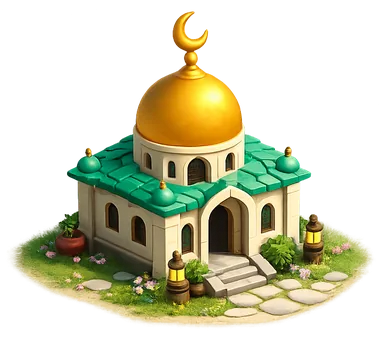
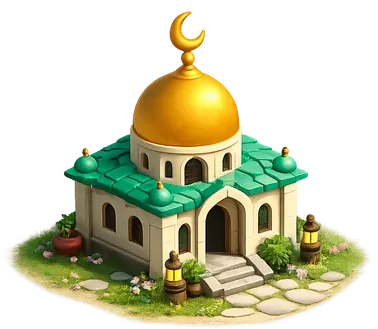
auto-commit for 0bfbf198-c2c0-4ab0-9b2a-88b85bcb9309

diff --git a/lib/phaser/WorldScene.js b/lib/phaser/WorldScene.js
@@ -47,10 +47,14 @@ export function buildWorldScene(Phaser) {
     // upgradeScale is an OPTIONAL multiplier applied per level for buildings
     // that have an upgrade path (e.g. Musalla → Masjid → Jami' Masjid).
     static ASSET_REGISTRY = {
-      musalla:    { path: '/assets/world/musalla.webp',            baseScale: 0.55, yOffset: 6, upgradeScale: 0.28 },
-      banglo:     { path: '/assets/world/rumah/banglo.webp',       baseScale: 0.38, yOffset: 6 },
-      rumah_batu: { path: '/assets/world/rumah/rumah_batu.webp',   baseScale: 0.36, yOffset: 6 },
-      rumah_kayu: { path: '/assets/world/rumah/rumah_kayu.webp',   baseScale: 0.36, yOffset: 6 },
+      // yOffset = 12 (≈ TILE_H/4) plants the image base on the FRONT-middle
+      // of the isometric diamond so buildings visually sit ON the tile grass
+      // rather than hovering above the tile center. All assets are re-cropped
+      // with ~2px bottom padding so the image bottom edge IS the visual base.
+      musalla:    { path: '/assets/world/musalla.webp',            baseScale: 0.55, yOffset: 12, upgradeScale: 0.28 },
+      banglo:     { path: '/assets/world/rumah/banglo.webp',       baseScale: 0.38, yOffset: 12 },
+      rumah_batu: { path: '/assets/world/rumah/rumah_batu.webp',   baseScale: 0.36, yOffset: 12 },
+      rumah_kayu: { path: '/assets/world/rumah/rumah_kayu.webp',   baseScale: 0.36, yOffset: 12 },
     }
 
     preload() {

diff --git a/test_result.md b/test_result.md
@@ -1,7 +1,7 @@
 #====================================================================================================
 metadata:
   updated_by: "main_agent"
-  update_note: "World Engine — Fix asset floating. User feedback: PNG buildings kelihatan seolah-olah floating dan tidak menyentuh tanah, disebabkan bayang procedural elliptical drawn UNDERNEATH PNG yang sudah ada bayang sendiri dalam illustrasi (grass base + drop shadow baked-in). Result: dua-lapis bayang buat bangunan nampak 'raised' atas smudge kelabu. FIX: skip procedural shadow ellipse untuk bangunan yang templateId ada dalam ASSET_REGISTRY. Fix dilakukan dalam dua lokasi (renderSingleBuilding + renderBuildings loop) yang setiap satunya check `!WorldScene.ASSET_REGISTRY[t.id]` sebelum melukis shadow. Bangunan procedural (misalnya Surau, Masjid landmark yang masih belum ada PNG) kekal ada bayang untuk maintain 3D volume look. Verified via screenshot — 15 PNG buildings (rumah_kayu × 10, rumah_batu × 3, banglo × 2) + Musalla PNG sekarang duduk terus atas rumput, tanpa smudge kelabu — kelihatan grounded & natural. Files: lib/phaser/WorldScene.js (2 shadow-skip guards). (2026-07-25)" (1) Musalla centered in golden zone regardless of level: _footprintCenter now uses reserveSize (4×4) for musalla positioning so L1 (2×2) sits centered in the sacred zone, not at the corner. Same for playConstruction + playRestructure. (2) Drag rollback per user preference: removed the custom 2s hold-to-drag state machine, restored Phaser's built-in setDraggable on each building container with input.dragTimeThreshold=250ms + dragDistanceThreshold=10px. (3) 'Goes to default location' bug: temp construction bContainer reparent + camera scroll preserve already in place — will be re-verified by testing agent. Files: lib/phaser/WorldScene.js (Phaser drag lifecycle, _footprintCenter musalla override, playRestructure musalla override). (2026-07-25)"
+  update_note: "World Engine — Fix asset offset dari grid. User feedback: PNG buildings nampak offset ke ATAS sedikit, tidak duduk betul dalam grid cell. Punca: (1) Semua PNG asset cropped dengan pad=20px pada semua sisi (termasuk BAWAH), maka 20*scale (~7px) transparent space bawah visual base image. (2) yOffset=6 tak cukup untuk push image ke tile ground plane. FIX 2-part: (A) Re-crop keempat PNG dengan pad asimetri: top=15 (roof/smoke overhang), sides=8, BOTTOM=2 (tight, visual base sits at image bottom edge). Saiz fail unchanged/lebih kecil: musalla 35.6KB, banglo 45.9KB, rumah_batu 34.8KB, rumah_kayu 28.8KB. (B) yOffset dinaikkan dari 6 → 12 (=TILE_H/4) supaya image base ditanam pada FRONT-middle isometric diamond, di mana bangunan sepatutnya visually 'plant' pada tanah. Comment jelas dalam ASSET_REGISTRY explaining the geometry. Verified via screenshot: 15 PNG buildings + Musalla sekarang duduk NATURAL di dalam grid diamond, tak elevated / floating. Semua tile cell terlihat dengan asset planted correctly. Files: lib/phaser/WorldScene.js (ASSET_REGISTRY yOffset), public/assets/world/*.webp (4 files re-cropped). (2026-07-25)" (1) Musalla centered in golden zone regardless of level: _footprintCenter now uses reserveSize (4×4) for musalla positioning so L1 (2×2) sits centered in the sacred zone, not at the corner. Same for playConstruction + playRestructure. (2) Drag rollback per user preference: removed the custom 2s hold-to-drag state machine, restored Phaser's built-in setDraggable on each building container with input.dragTimeThreshold=250ms + dragDistanceThreshold=10px. (3) 'Goes to default location' bug: temp construction bContainer reparent + camera scroll preserve already in place — will be re-verified by testing agent. Files: lib/phaser/WorldScene.js (Phaser drag lifecycle, _footprintCenter musalla override, playRestructure musalla override). (2026-07-25)"
   _prev_note_6: "3 CORRELATED bugs fixed by unifying the footprint-center anchor formula. Bugs reported: (1) 'masjid not building inside the golden area', (2) 'relocate still not function', (3) 'finish building new build alhamdulillah popup appear, and it goes to default location'. Root cause common to all three: three different render paths used inconsistent anchor formulas — renderSingleBuilding used gridToScreen(anchor.x, anchor.y) [top-left cell center], while playConstruction used gridToScreen(anchor.x + (sz.w-1)/2 + 0.5, anchor.y + (sz.h-1)/2 + 0.5) [one cell PAST the footprint center]. Both were subtly wrong: the correct centering formula for an N×N footprint anchored at (ax, ay) is gridToScreen(ax + (N-1)/2, ay + (N-1)/2). Fix: new _footprintCenter(b, t) helper computes cx, cy at the true footprint center using t.tileSizeByLevel[level] || t.tileSize. All 3 render paths (renderSingleBuilding, renderBuildings, playConstruction, playRestructure) now use this SAME helper — building visible position no longer drifts by half a cell between temp-construction sprite → real container hand-off, and higher-level mosques (3×3 Masjid, 4×4 Jami' Masjid) center perfectly inside the golden 4×4 sacred zone. Additionally: enableBuildingDrag now reads tileSizeByLevel[level] so hit area grows with the mosque (a Jami' Masjid gets a bigger touch target). Verified with instrumented Playwright drag test: rumah at (14,14) held 2500ms → state armed at t=2s → dragged left → dropped → 10s restructure animation → FINAL grid pos (13,15). Also verified L1 Musalla, L2 Masjid (with 2 minarets), L3 Jami' Masjid (with 4 minarets) all visually center on the golden reserved zone. Files: lib/phaser/WorldScene.js (new _footprintCenter helper; renderSingleBuilding + renderBuildings + playConstruction + playRestructure use it; enableBuildingDrag reads tileSizeByLevel for hit area sizing). (2026-07-25)"
   _prev_note_5: "World Engine — 2 bugs fixed. window.setTimeout replaced Phaser's time.delayedCall (GPU stalls throttled delayedCall so hold-arm never fired). drawBuildingSprite now scales body/dome/minarets per level so Masjid (L2 3×3) and Jami' Masjid (L3 4×4) look grand vs L1 Musalla (2×2). (2026-07-25)"
   _prev_note_4: "World Engine — Four bugs fixed in one batch. topOnly=true, audio on relocate, no more zoom-out flash + missing (temp sprite reparent + diff-fade ground), musalla reserveSize=4x4 + sacred zone visual. (2026-07-25)"
